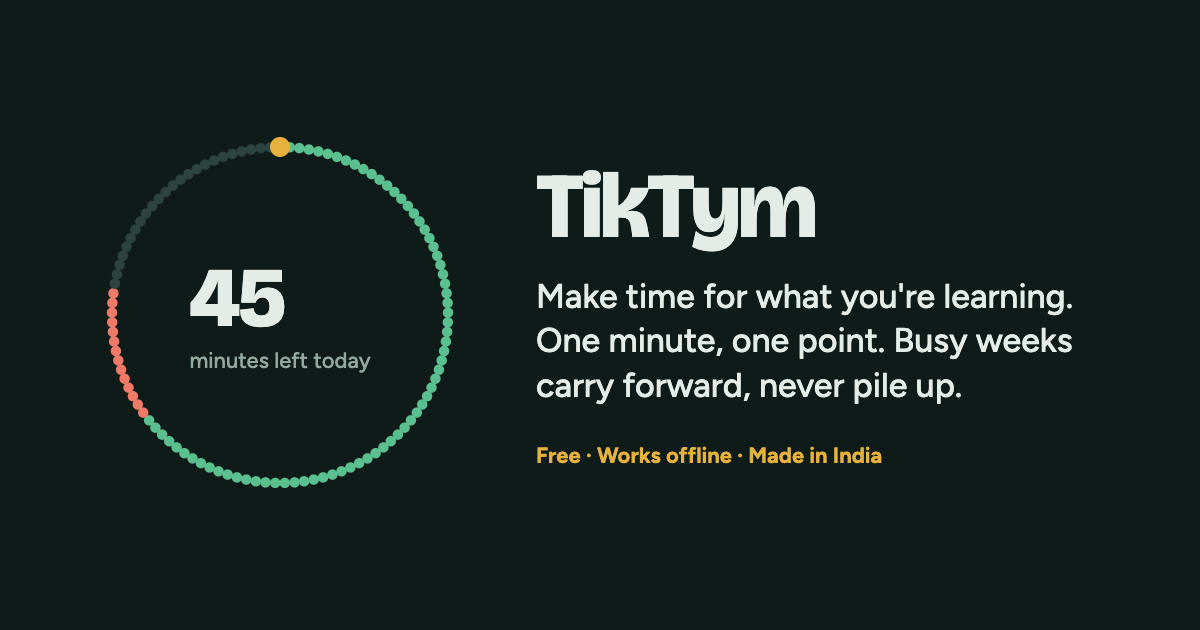
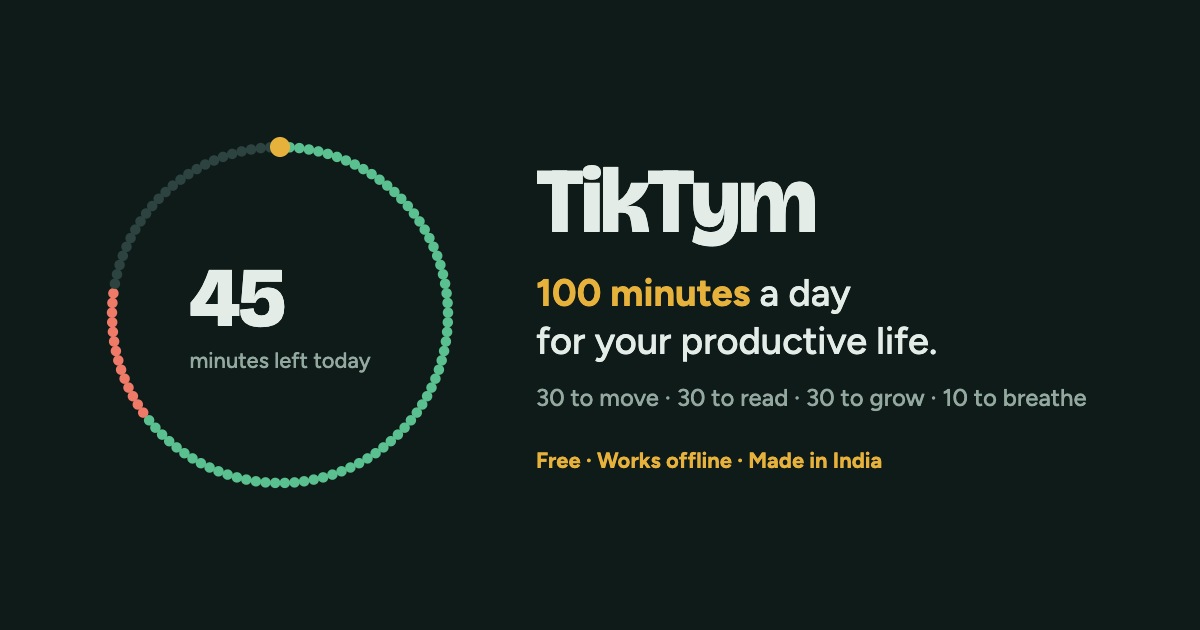
Brand line in the app: 100 minutes a day for your productive life

diff --git a/index.html b/index.html
@@ -10,18 +10,18 @@
 <meta name="apple-mobile-web-app-title" content="TikTym">
 <meta name="apple-mobile-web-app-status-bar-style" content="default">
 <title>TikTym</title>
-<meta name="description" content="Make time for what you're learning. One minute, one point. Busy weeks carry forward, never pile up. Free, works offline, made in India.">
+<meta name="description" content="100 minutes a day for your productive life: 30 to move, 30 to read, 30 to grow, 10 to breathe. Busy days carry forward. Free, made in India.">
 <!-- Link previews (WhatsApp, LinkedIn, X, Slack). Absolute URLs: update with the domain move to tiktym.com (GTM-06). -->
 <meta property="og:type" content="website">
 <meta property="og:site_name" content="TikTym">
 <meta property="og:locale" content="en_IN">
 <meta property="og:url" content="https://app.tiktym.com/">
-<meta property="og:title" content="TikTym: make time for what you're learning">
-<meta property="og:description" content="One minute, one point. Busy weeks carry forward, never pile up. Free, works offline, made in India.">
+<meta property="og:title" content="TikTym: 100 minutes a day for your productive life">
+<meta property="og:description" content="30 minutes to move, 30 to read, 30 to grow, 10 to breathe. Busy days carry forward. Free, made in India.">
 <meta property="og:image" content="https://app.tiktym.com/og.png">
 <meta property="og:image:width" content="1200">
 <meta property="og:image:height" content="630">
-<meta property="og:image:alt" content="TikTym: a ring of 108 beads filling up, with the line 'Make time for what you're learning'">
+<meta property="og:image:alt" content="TikTym: a ring of 108 beads filling up, with the line '100 minutes a day for your productive life'">
 <meta name="twitter:card" content="summary_large_image">
 <link rel="icon" href="/icons/icon.svg" type="image/svg+xml">
 <link rel="apple-touch-icon" href="/icons/icon-192.png">

diff --git a/src/lib/card.ts b/src/lib/card.ts
@@ -51,7 +51,7 @@ export async function drawCard(canvas: HTMLCanvasElement, s: CardStats, { names 
   ctx.fillStyle = C.ink; ctx.font = `800 230px ${DISPLAY}`;
   ctx.fillText(formatTime(s.minutes), L - 8, 540);
   ctx.fillStyle = C.ink2; ctx.font = `400 44px ${BODY}`;
-  ctx.fillText('of learning and practice', L, 610);
+  ctx.fillText('for a productive life', L, 610);
 
   // streak and active days
   const box = (x: number, value: string, label: string, color: string) => {
@@ -81,7 +81,7 @@ export async function drawCard(canvas: HTMLCanvasElement, s: CardStats, { names 
 
   // footer
   ctx.fillStyle = C.ink2; ctx.font = `400 36px ${BODY}`;
-  ctx.fillText('One minute, one point', L, CARD.height - 90);
+  ctx.fillText('100 minutes a day', L, CARD.height - 90);
   ctx.fillStyle = C.gold; ctx.font = `700 36px ${BODY}`; ctx.textAlign = 'right';
   ctx.fillText('tiktym.com', L + W, CARD.height - 90);
   ctx.textAlign = 'left';
@@ -91,5 +91,5 @@ export async function drawCard(canvas: HTMLCanvasElement, s: CardStats, { names 
 export function cardSummary(s: CardStats, names: boolean): string {
   const top = s.top.map((p, i) => `${names ? p.name : `Practice ${i + 1}`} ${formatTime(p.minutes)}`).join(', ');
   const first = streakStat(s);
-  return `${s.month} so far: ${formatTime(s.minutes)} of learning and practice, ${first.value} ${first.label}, ${s.activeDays} active days${top ? `. Top: ${top}` : ''}.`;
+  return `${s.month} so far: ${formatTime(s.minutes)} for a productive life, ${first.value} ${first.label}, ${s.activeDays} active days${top ? `. Top: ${top}` : ''}.`;
 }

diff --git a/e2e/app.spec.ts b/e2e/app.spec.ts
@@ -121,9 +121,9 @@ test.describe('update bar (APP-22)', () => {
 test('sharing the link shows a title, description and preview image (GTM-01)', async ({ page, request }) => {
   await page.goto('/');
   const meta = (sel: string) => page.locator(sel).getAttribute('content');
-  expect(await meta('meta[property="og:title"]')).toBe("TikTym: make time for what you're learning");
-  expect(await meta('meta[property="og:description"]')).toContain('Busy weeks carry forward');
-  expect(await meta('meta[name="description"]')).toContain('made in India');
+  expect(await meta('meta[property="og:title"]')).toBe('TikTym: 100 minutes a day for your productive life');
+  expect(await meta('meta[property="og:description"]')).toContain('30 minutes to move, 30 to read, 30 to grow, 10 to breathe');
+  expect(await meta('meta[name="description"]')).toContain('100 minutes a day for your productive life');
   expect(await meta('meta[name="twitter:card"]')).toBe('summary_large_image');
   const image = await meta('meta[property="og:image"]');
   expect(image).toMatch(/^https:\/\/.+\/og\.png$/); // previews need an absolute URL

diff --git a/site/updates/index.html b/site/updates/index.html
@@ -47,6 +47,7 @@
       <h2>Coming in the next update</h2>
       
       <ul>
+        <li><strong>A new promise: 100 minutes a day for your productive life.</strong> 30 minutes to move, 30 to read, 30 to grow and 10 to breathe, the four practices every new account starts with. Busy days still carry forward.</li>
         <li><strong>Notifications and privacy in Setup</strong>: switches for each kind of email (tips and reminders, weekly recap, news) and for usage statistics. They're on from the start, and each turns off with one tap.</li>
         <li><strong>A welcome email</strong> when you start, with the practices you chose and how to add TikTym to your home screen, and a gentle nudge a day later if you haven't logged your first minutes. Every email has an unsubscribe link.</li>
         <li><strong>Updated Privacy Policy and Terms</strong> explaining what's on and how to turn it off.</li>

diff --git a/src/screens/Login.tsx b/src/screens/Login.tsx
@@ -45,7 +45,7 @@ export function Login({ error: initialError = '' }: { error?: string }) {
     <main className="login">
       <Mark className="mark" />
       <h1>TikTym</h1>
-      <p className="lead">{signup ? 'Create your account. Pick your practices next, then log your first minute.' : 'One minute, one point. Clear today, then clear what\'s carried.'}</p>
+      <p className="lead">{signup ? 'Create your account. Pick your practices next, then log your first minute.' : '100 minutes a day for your productive life.'}</p>
       {/* Google first: on most phones in India it's two taps and no typing (AUTH-30) */}
       <button className="btn gbtn" onClick={google}><GoogleLogo /> Continue with Google</button>
       <div className="or">or use your email</div>

diff --git a/e2e/share.spec.ts b/e2e/share.spec.ts
@@ -14,7 +14,7 @@ test('Insights › Share previews a 1080×1350 card (SHARE-02)', async ({ page }
   await openShare(page);
   const img = page.locator('.card-preview img');
   expect(await img.evaluate(i => [(i as HTMLImageElement).naturalWidth, (i as HTMLImageElement).naturalHeight])).toEqual([1080, 1350]);
-  await expect(img).toHaveAttribute('alt', /^October so far: .+ of learning and practice, \d+ (day streak|day best streak|entr(y|ies) this month), \d+ active days\. Top: .+\.$/);
+  await expect(img).toHaveAttribute('alt', /^October so far: .+ for a productive life, \d+ (day streak|day best streak|entr(y|ies) this month), \d+ active days\. Top: .+\.$/);
 });
 
 test('the names switch hides practice names (SHARE-04)', async ({ page }) => {

diff --git a/src/sheets/ShareSheet.tsx b/src/sheets/ShareSheet.tsx
@@ -36,7 +36,7 @@ export function ShareSheet() {
   async function share() {
     if (!file) return;
     try {
-      await navigator.share({ files: [file], title: 'My TikTym progress', text: 'One minute, one point. tiktym.com' });
+      await navigator.share({ files: [file], title: 'My TikTym progress', text: '100 minutes a day for a productive life. tiktym.com' });
       track('share_progress', { method: 'share' }); count('cardsShared');
     } catch (e) {
       if ((e as Error).name !== 'AbortError') toast("Couldn't open sharing here. Try Download instead.");

diff --git a/vite.config.ts b/vite.config.ts
@@ -32,7 +32,7 @@ export default defineConfig({
       manifest: {
         name: 'TikTym',
         short_name: 'TikTym',
-        description: 'One minute, one point. Track daily practices and clear your backlog.',
+        description: '100 minutes a day for your productive life: move, read, grow and breathe.',
         start_url: '/',
         scope: '/',
         display: 'standalone',

diff --git a/to-do.md b/to-do.md
@@ -81,6 +81,9 @@ Day-to-day outreach (tasks by date, messages, tracking links, share and feedback
 
 - [ ] **You:** Google Search Console (verified 9 October): submit `sitemap.xml` under Sitemaps, and use URL inspection › Request indexing for https://tiktym.com/ and https://tiktym.com/updates/.
 - [ ] **You:** Bing Webmaster Tools: Import from Google Search Console (Bing feeds ChatGPT search, Copilot and DuckDuckGo).
+- [ ] **Claude:** the new brand line on the website: title, hero, how it works, sections, closing, search description, llms.txt, structured data (GTM-04).
+- [ ] **Claude:** the new brand line in the emails: header image and tips (NOTIF-03).
+- [ ] **Claude:** new LinkedIn cover, post image and video, and OUTREACH.md messages with the new line.
 - [ ] **You:** post on the TikTym LinkedIn page 2 or 3 times a week (page set up 8 October) (building in public, "busy weeks carry forward", monthly progress with Insights screenshots).
 - [ ] **You:** run a 30-day learning challenge with your network, using TikTym.
 - [ ] **You:** take part in r/developersIndia, r/IndianWorkplace and tech Slack/Discord communities before sharing TikTym.
@@ -134,6 +137,7 @@ Decided 10 October 2026: everything on by default, each switchable off in Setup 
 
 Move items here when they're finished, newest first, so there's a record.
 
+- [x] New brand line in the app: sign-in tagline, install description, link preview text and image ("100 minutes a day for your productive life", 30 to move · 30 to read · 30 to grow · 10 to breathe), share message, and the progress card ("for a productive life", "100 minutes a day") (AUTH-01, GTM-01, SHARE-02), 10 October 2026
 - [x] Removed the one-time notice on Today (Praveen tells existing users himself); the Privacy Policy now promises to announce significant changes "in the app or by email or message", 10 October 2026
 - [x] Existing accounts get emails and usage statistics on straight away; the one-time notice on Today only informs. The device's choice is stored under a new name from 1.8.0, so earlier stored "no"s (mostly the old unticked sign-up box) no longer count; turning it off from 1.8.0 on is respected (Praveen's decision, 10 October 2026; ANA-01, NOTIF-02)
 - [x] The first email switch is now "Tips and reminders" (welcome, first-week tips, the first-minute nudge and comeback); the email schedule and rules are in NOTIFICATIONS.md, and the Privacy Policy and Terms list every planned email, 10 October 2026

diff --git a/FEATURES.md b/FEATURES.md
@@ -50,7 +50,7 @@ The app has two modes, set by `VITE_BACKEND`. **Test mode** (`local`) keeps data
 
 | ID | Scenario | Expected | Coverage |
 |---|---|---|---|
-| AUTH-01 | Open the app signed out | Login screen with the TikTym mark, heading and tagline "One minute, one point. Clear today, then clear what's carried." | E2E `auth.spec.ts` |
+| AUTH-01 | Open the app signed out | Login screen with the TikTym mark, heading and tagline "100 minutes a day for your productive life." | E2E `auth.spec.ts` |
 | AUTH-02 | Test-mode hint | Shows the demo email and password when `VITE_SHOW_DEV_HINT` is on | E2E `auth.spec.ts` |
 | AUTH-03 | Submit with an empty field | "Enter your email and password." | E2E `auth.spec.ts` |
 | AUTH-04 | Wrong email or password | "That email and password don't match the test login." | E2E `auth.spec.ts` |

diff --git a/CHANGELOG.md b/CHANGELOG.md
@@ -15,6 +15,7 @@ Format, newest first:
 
 ## Coming next
 
+- **A new promise: 100 minutes a day for your productive life.** 30 minutes to move, 30 to read, 30 to grow and 10 to breathe, the four practices every new account starts with. Busy days still carry forward.
 - **Notifications and privacy in Setup**: switches for each kind of email (tips and reminders, weekly recap, news) and for usage statistics. They're on from the start, and each turns off with one tap.
 - **A welcome email** when you start, with the practices you chose and how to add TikTym to your home screen, and a gentle nudge a day later if you haven't logged your first minutes. Every email has an unsubscribe link.
 - **Updated Privacy Policy and Terms** explaining what's on and how to turn it off.
